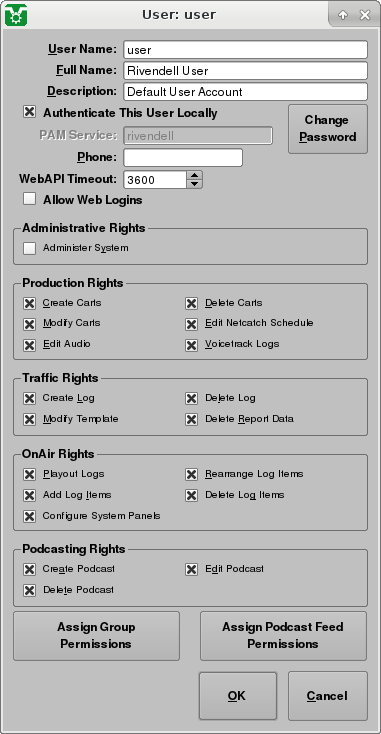
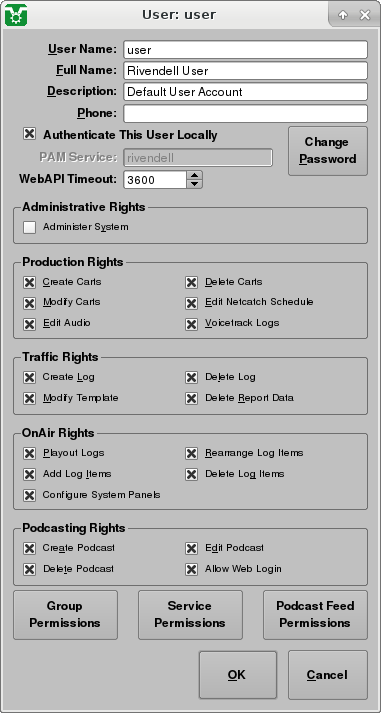
2017-12-07 Fred Gleason <fredg@paravelsystems.com> 	* Rearranged the 'Edit User' dialog in rdadmin(1) to improve 	functional groups of controls.

Changed region(s): [[0.0289, 0.0, 0.9816, 0.9565], [0.0, 0.0, 0.0577, 0.0617]]

diff --git a/rdadmin/rdadmin_fr.ts b/rdadmin/rdadmin_fr.ts
@@ -3629,10 +3629,6 @@ must be saved.  Save now?</source>
         <translation type="unfinished"></translation>
     </message>
     <message>
-        <source>Allow Web Logins</source>
-        <translation type="unfinished"></translation>
-    </message>
-    <message>
         <source>Change
 &amp;Password</source>
         <translation type="unfinished"></translation>
@@ -3770,6 +3766,10 @@ Permissions</source>
     <message>
         <source>Podcast Feed
 Permissions</source>
+        <translation type="unfinished"></translation>
+    </message>
+    <message>
+        <source>Allow Web Login</source>
         <translation type="unfinished"></translation>
     </message>
 </context>

diff --git a/rdadmin/rdadmin_cs.ts b/rdadmin/rdadmin_cs.ts
@@ -4092,7 +4092,7 @@ uloženo. Uložit nyní?</translation>
     </message>
     <message>
         <source>Allow Web Logins</source>
-        <translation>Dovolit webová přihlášení</translation>
+        <translation type="obsolete">Dovolit webová přihlášení</translation>
     </message>
     <message>
         <source>Change
@@ -4245,6 +4245,10 @@ Permissions</source>
     <message>
         <source>Podcast Feed
 Permissions</source>
+        <translation type="unfinished"></translation>
+    </message>
+    <message>
+        <source>Allow Web Login</source>
         <translation type="unfinished"></translation>
     </message>
 </context>

diff --git a/rdadmin/rdadmin_nb.ts b/rdadmin/rdadmin_nb.ts
@@ -4019,7 +4019,7 @@ Lagre no?</translation>
     </message>
     <message>
         <source>Allow Web Logins</source>
-        <translation>Gje høve til pålogging frå nettet</translation>
+        <translation type="obsolete">Gje høve til pålogging frå nettet</translation>
     </message>
     <message>
         <source>Change
@@ -4172,6 +4172,10 @@ Permissions</source>
     <message>
         <source>Podcast Feed
 Permissions</source>
+        <translation type="unfinished"></translation>
+    </message>
+    <message>
+        <source>Allow Web Login</source>
         <translation type="unfinished"></translation>
     </message>
 </context>

diff --git a/rdadmin/rdadmin_nn.ts b/rdadmin/rdadmin_nn.ts
@@ -4019,7 +4019,7 @@ Lagre no?</translation>
     </message>
     <message>
         <source>Allow Web Logins</source>
-        <translation>Gje høve til pålogging frå nettet</translation>
+        <translation type="obsolete">Gje høve til pålogging frå nettet</translation>
     </message>
     <message>
         <source>Change
@@ -4172,6 +4172,10 @@ Permissions</source>
     <message>
         <source>Podcast Feed
 Permissions</source>
+        <translation type="unfinished"></translation>
+    </message>
+    <message>
+        <source>Allow Web Login</source>
         <translation type="unfinished"></translation>
     </message>
 </context>

diff --git a/rdadmin/rdadmin_es.ts b/rdadmin/rdadmin_es.ts
@@ -4159,7 +4159,7 @@ Feeds para Podcasts</translation>
     </message>
     <message>
         <source>Allow Web Logins</source>
-        <translation>Permitir ingreso vía Web</translation>
+        <translation type="obsolete">Permitir ingreso vía Web</translation>
     </message>
     <message>
         <source>Disabled</source>
@@ -4190,6 +4190,10 @@ Permissions</source>
     <message>
         <source>Podcast Feed
 Permissions</source>
+        <translation type="unfinished"></translation>
+    </message>
+    <message>
+        <source>Allow Web Login</source>
         <translation type="unfinished"></translation>
     </message>
 </context>

diff --git a/rdadmin/rdadmin_de.ts b/rdadmin/rdadmin_de.ts
@@ -4049,7 +4049,7 @@ gespeichert werden. Jetzt speichern?</translation>
     </message>
     <message>
         <source>Allow Web Logins</source>
-        <translation>Web-Logins erlauben</translation>
+        <translation type="obsolete">Web-Logins erlauben</translation>
     </message>
     <message>
         <source>Change
@@ -4202,6 +4202,10 @@ Permissions</source>
     <message>
         <source>Podcast Feed
 Permissions</source>
+        <translation type="unfinished"></translation>
+    </message>
+    <message>
+        <source>Allow Web Login</source>
         <translation type="unfinished"></translation>
     </message>
 </context>

diff --git a/rdadmin/rdadmin_pt_BR.ts b/rdadmin/rdadmin_pt_BR.ts
@@ -4042,7 +4042,7 @@ deve ser salva.  Salvar Agora?</translation>
     </message>
     <message>
         <source>Allow Web Logins</source>
-        <translation>Permitir Login Online</translation>
+        <translation type="obsolete">Permitir Login Online</translation>
     </message>
     <message>
         <source>Change
@@ -4195,6 +4195,10 @@ Permissions</source>
     <message>
         <source>Podcast Feed
 Permissions</source>
+        <translation type="unfinished"></translation>
+    </message>
+    <message>
+        <source>Allow Web Login</source>
         <translation type="unfinished"></translation>
     </message>
 </context>

diff --git a/rdadmin/edit_user.cpp b/rdadmin/edit_user.cpp
@@ -107,15 +107,27 @@ EditUser::EditUser(const QString &user,QWidget *parent)
   user_description_label->setAlignment(AlignRight|AlignVCenter|ShowPrefix);
 
   //
+  // User Phone
+  //
+  user_phone_edit=new QLineEdit(this);
+  user_phone_edit->setGeometry(120,75,sizeHint().width()-130,19);
+  user_phone_edit->setMaxLength(20);
+  user_phone_edit->setValidator(validator);
+  QLabel *user_phone_label=new QLabel(user_phone_edit,tr("&Phone:"),this);
+  user_phone_label->setGeometry(10,75,105,19);
+  user_phone_label->setFont(font);
+  user_phone_label->setAlignment(AlignRight|AlignVCenter|ShowPrefix);
+
+  //
   // Local Authentication
   //
   user_localauth_check=new QCheckBox(this);
-  user_localauth_check->setGeometry(20,75,15,15);
+  user_localauth_check->setGeometry(20,97,15,15);
   connect(user_localauth_check,SIGNAL(toggled(bool)),
 	  this,SLOT(localAuthToggledData(bool)));
   user_localauth_label=new QLabel(user_localauth_check,
 				  tr("Authenticate This User Locally"),this);
-  user_localauth_label->setGeometry(40,75,180,19);
+  user_localauth_label->setGeometry(40,97,180,19);
   user_localauth_label->setFont(font);
   user_localauth_label->setAlignment(AlignLeft|AlignVCenter|ShowPrefix);
 
@@ -123,11 +135,11 @@ EditUser::EditUser(const QString &user,QWidget *parent)
   // PAM Service
   //
   user_pamservice_edit=new QLineEdit(this);
-  user_pamservice_edit->setGeometry(120,97,150,19);
+  user_pamservice_edit->setGeometry(120,119,150,19);
   user_pamservice_edit->setMaxLength(32);
   user_pamservice_label=
     new QLabel(user_pamservice_edit,tr("PAM Service")+":",this);
-  user_pamservice_label->setGeometry(10,97,105,19);
+  user_pamservice_label->setGeometry(10,119,105,19);
   user_pamservice_label->setFont(font);
   user_pamservice_label->setAlignment(AlignRight|AlignVCenter|ShowPrefix);
 
@@ -135,22 +147,10 @@ EditUser::EditUser(const QString &user,QWidget *parent)
   // Change Password Button
   //
   user_password_button=new QPushButton(this);
-  user_password_button->setGeometry(sizeHint().width()-90,75,80,50);
+  user_password_button->setGeometry(sizeHint().width()-90,97,80,50);
   user_password_button->setFont(font);
   user_password_button->setText(tr("Change\n&Password"));
   connect(user_password_button,SIGNAL(clicked()),this,SLOT(passwordData()));
-
-  //
-  // User Phone
-  //
-  user_phone_edit=new QLineEdit(this);
-  user_phone_edit->setGeometry(120,119,120,19);
-  user_phone_edit->setMaxLength(20);
-  user_phone_edit->setValidator(validator);
-  QLabel *user_phone_label=new QLabel(user_phone_edit,tr("&Phone:"),this);
-  user_phone_label->setGeometry(10,119,105,19);
-  user_phone_label->setFont(font);
-  user_phone_label->setAlignment(AlignRight|AlignVCenter|ShowPrefix);
 
   //
   // WebAPI Authorization Timeout
@@ -165,21 +165,22 @@ EditUser::EditUser(const QString &user,QWidget *parent)
   user_webapi_auth_label->setFont(font);
   user_webapi_auth_label->setAlignment(AlignRight|AlignVCenter|ShowPrefix);
 
+  /*
   //
   // Enable Web Login
   //
   user_web_box=new QCheckBox(this);
   user_web_box->setGeometry(20,162,15,15);
-  user_web_label=new QLabel(user_web_box,tr("Allow Web Logins"),this);
-  user_web_label->setGeometry(40,162,180,19);
+  user_web_label=new QLabel(user_web_box,tr("Allow RDCastManager Web Logins"),this);
+  user_web_label->setGeometry(40,162,sizeHint().width()-50,19);
   user_web_label->setFont(font);
   user_web_label->setAlignment(AlignLeft|AlignVCenter|ShowPrefix);
-
+  */
   //
   // Administrative Group Priviledges
   //
   user_admin_group=new QButtonGroup(tr("Administrative Rights"),this);
-  user_admin_group->setGeometry(10,191,355,45);
+  user_admin_group->setGeometry(10,170,355,45);
   user_admin_group->setFont(font);
 
   user_admin_config_button=new QCheckBox(user_admin_group);
@@ -198,7 +199,7 @@ EditUser::EditUser(const QString &user,QWidget *parent)
   // Production Group Priviledges
   //
   user_prod_group=new QButtonGroup(tr("Production Rights"),this);
-  user_prod_group->setGeometry(10,246,355,85);
+  user_prod_group->setGeometry(10,225,355,85);
   user_prod_group->setFont(font);
 
   user_create_carts_button=new QCheckBox(user_prod_group);
@@ -255,7 +256,7 @@ EditUser::EditUser(const QString &user,QWidget *parent)
   // Traffic Group Priviledges
   //
   user_traffic_group=new QButtonGroup(tr("Traffic Rights"),this);
-  user_traffic_group->setGeometry(10,341,355,66);
+  user_traffic_group->setGeometry(10,320,355,66);
   user_traffic_group->setFont(font);
 
   user_create_log_button=new QCheckBox(user_traffic_group);
@@ -296,7 +297,7 @@ EditUser::EditUser(const QString &user,QWidget *parent)
   // OnAir Group Priviledges
   //
   user_onair_group=new QButtonGroup(tr("OnAir Rights"),this);
-  user_onair_group->setGeometry(10,417,355,85);
+  user_onair_group->setGeometry(10,396,355,85);
   user_onair_group->setFont(font);
 
   user_playout_log_button=new QCheckBox(user_onair_group);
@@ -346,7 +347,7 @@ EditUser::EditUser(const QString &user,QWidget *parent)
   // Podcast Group Priviledges
   //
   user_podcast_group=new QButtonGroup(tr("Podcasting Rights"),this);
-  user_podcast_group->setGeometry(10,512,355,66);
+  user_podcast_group->setGeometry(10,491,355,66);
   user_podcast_group->setFont(font);
 
   user_add_podcast_button=new QCheckBox(user_podcast_group);
@@ -375,11 +376,19 @@ EditUser::EditUser(const QString &user,QWidget *parent)
   user_delete_podcast_label->setFont(small_font);
   user_delete_podcast_label->setAlignment(AlignLeft|ShowPrefix);
 
+  user_web_box=new QCheckBox(user_podcast_group);
+  user_web_box->setGeometry(172,42,15,15);
+  user_web_label=new QLabel(user_web_box,tr("Allow Web Login"),
+			    user_podcast_group);
+  user_web_label->setGeometry(192,42,150,19);
+  user_web_label->setFont(small_font);
+  user_web_label->setAlignment(AlignLeft|ShowPrefix);
+
   //
   //  Group Permissions Button
   //
   user_assign_perms_button=new QPushButton(this);
-  user_assign_perms_button->setGeometry(10,582,sizeHint().width()/3-20,50);
+  user_assign_perms_button->setGeometry(10,561,sizeHint().width()/3-20,50);
   user_assign_perms_button->setFont(font);
   user_assign_perms_button->setText(tr("Group\nPermissions"));
   connect(user_assign_perms_button,SIGNAL(clicked()),this,SLOT(groupsData()));
@@ -388,7 +397,7 @@ EditUser::EditUser(const QString &user,QWidget *parent)
   //  Services Permissions Button
   //
   user_assign_svcs_button=new QPushButton(this);
-  user_assign_svcs_button->setGeometry(sizeHint().width()/3+10,582,sizeHint().width()/3-20,50);
+  user_assign_svcs_button->setGeometry(sizeHint().width()/3+10,561,sizeHint().width()/3-20,50);
   user_assign_svcs_button->setFont(font);
   user_assign_svcs_button->setText(tr("Service\nPermissions"));
   connect(user_assign_svcs_button,SIGNAL(clicked()),this,SLOT(servicesData()));
@@ -398,7 +407,7 @@ EditUser::EditUser(const QString &user,QWidget *parent)
   //
   user_assign_feeds_button=new QPushButton(this);
   user_assign_feeds_button->
-    setGeometry(2*sizeHint().width()/3+10,582,sizeHint().width()/3-20,50);
+    setGeometry(2*sizeHint().width()/3+10,561,sizeHint().width()/3-20,50);
   user_assign_feeds_button->setFont(font);
   user_assign_feeds_button->setText(tr("Podcast Feed\nPermissions"));
   connect(user_assign_feeds_button,SIGNAL(clicked()),this,SLOT(feedsData()));
@@ -489,7 +498,7 @@ EditUser::~EditUser()
 
 QSize EditUser::sizeHint() const
 {
-  return QSize(375,702);
+  return QSize(375,681);
 } 
 
 
